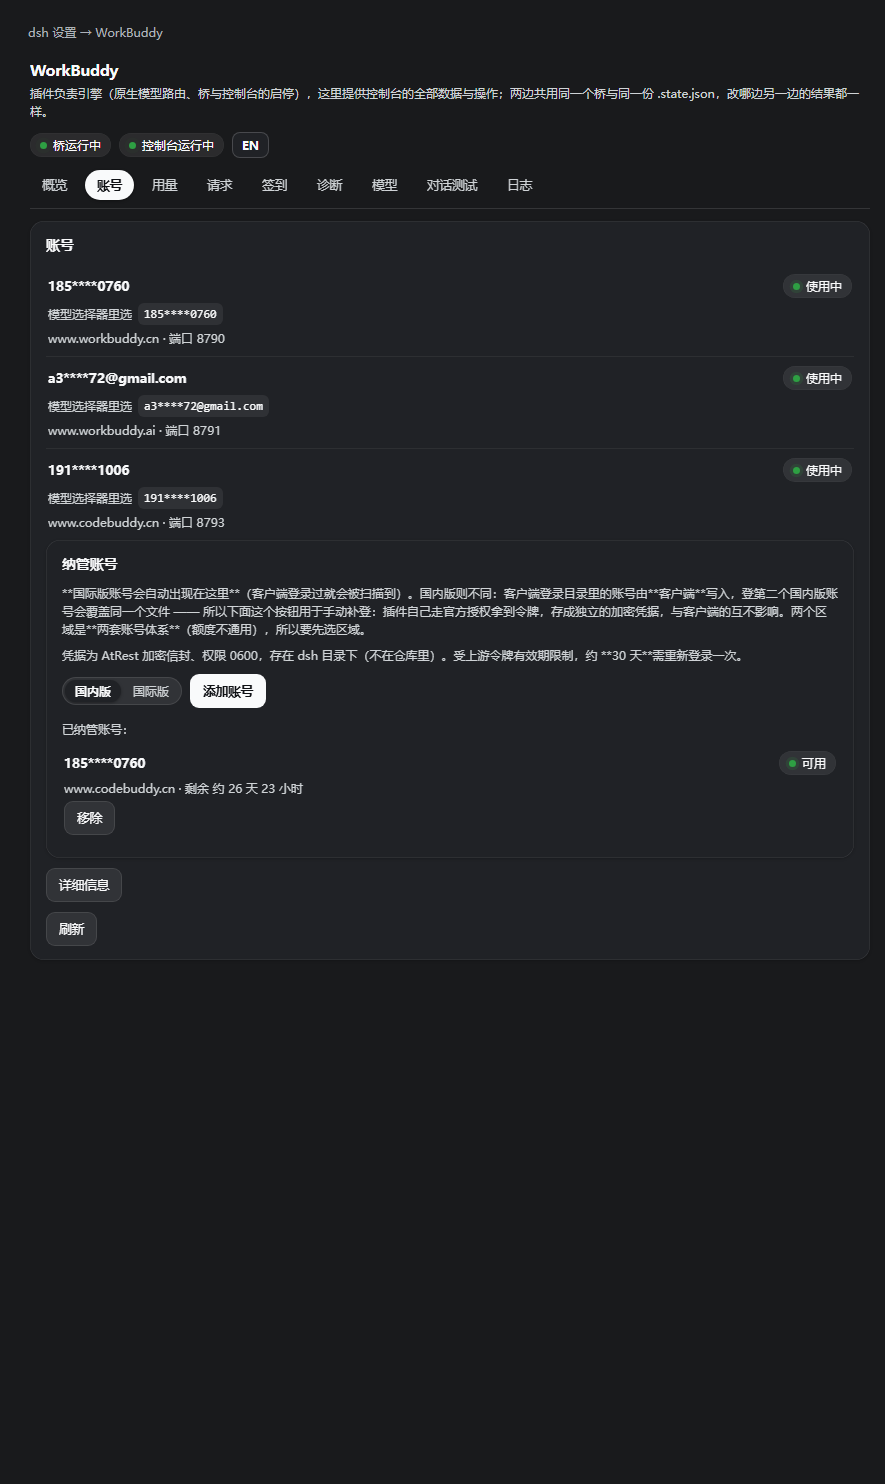
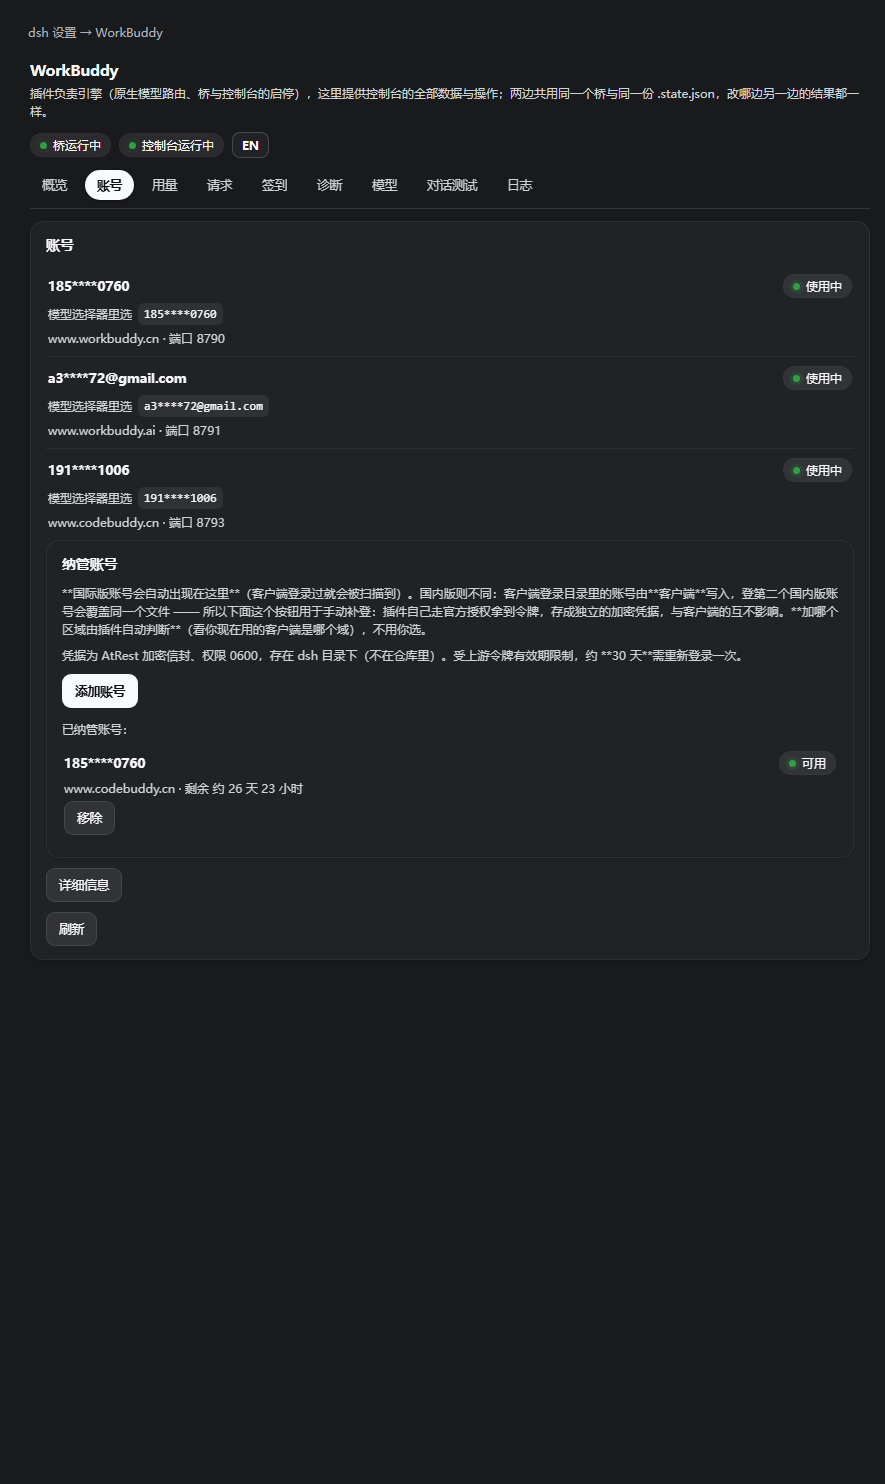
feat: 去掉区域选择 —— 「添加账号」由插件自动判断区域
用户连续三次反馈，指向同一个结论：

  ① `国内版 | 国际版` 切换器 + 一个按钮  → "不要这个切换按钮了"
  ② 两个按钮（添加国内版账号 / 添加国际版账号）→ "两个明确的按钮也不需要"
  ③ 一个按钮，区域自动判断  ← 现在

**"该加哪个区域"有确定答案**：你正在用的客户端是哪个域，就是要补登的那个域。
让用户去选一个他自己都不知道该怎么选的东西，本来就是设计失误。

实现：`routes.mjs` 新增 `detectRegion()`，读主桥 `/health` 的 `auth.endpoint`
（实测国内版 `https://copilot.tencent.com`、国际版 `https://www.workbuddy.ai`），
endpoint 缺失时回退到 `auth.domain`，都拿不到才兜底 `cn`。
`action: 'start'` 没传 region 时自动探测；显式传仍被尊重（诊断/脚本用得上）。

域映射按**后缀**认已知等价域（实测上游不同版本用过 `workbuddy.ai` /
`codebuddy.ai` / `codebuddy.cn` / `workbuddy.cn`），**不认识的域一律返回空**
——不猜，猜错等于让用户去错的上游登一次。

面板：删掉 region 状态与分段控件，`begin()` 不再接收参数、请求只发
`{action:'start'}`。界面上没有任何区域字样。

真机验证：
  - 主桥 endpoint = copilot.tencent.com → 判定 cn ✓
  - 两个区域都能真的从上游拿到授权链接（国际版链接指向 www.workbuddy.ai）✓
  - 面板渲染测试：单个按钮、无区域控件、请求不带 region ✓

新增测试 region-detect.test.mjs（3 条）：路由层必须自动探测、域映射认得等价域
且不认识的域不猜、面板只有一个按钮且请求不带 region。
面板渲染测试也同步更新（原先断言"点国际版 → region=global"，现在断言"没有区域
控件且请求不带 region"）。

顺带修 README 两处过期描述（"登录只做国内版"已不成立）。

diff --git a/dsh-plugin/lib/client.js b/dsh-plugin/lib/client.js
@@ -618,11 +618,8 @@ body.dark .wb-root,
       // ── 纳管账号（插件自己走 OAuth 登录） ──────────────────────────────
       '纳管账号': 'Managed accounts',
       '正在读取纳管账号…': 'Loading managed accounts…',
-      '**国际版账号会自动出现在这里**（客户端登录过就会被扫描到）。国内版则不同：客户端登录目录里的账号由**客户端**写入，登第二个国内版账号会覆盖同一个文件 —— 所以下面这个按钮用于手动补登：插件自己走官方授权拿到令牌，存成独立的加密凭据，与客户端的互不影响。两个区域是**两套账号体系**（额度不通用），所以要先选区域。':
-        '**International accounts show up here automatically** (the client\'s login directory is scanned). Domestic accounts differ: the client writes them into a single fixed file, so signing in a second one overwrites the first — the button below signs in an additional account through the official authorization flow and stores it as an independent encrypted credential that does not interfere with the client. The two regions are **separate account systems** (credits do not carry over), so pick a region first.',
-      '登录区域': 'Sign-in region',
-      '国内版': 'Domestic',
-      '国际版': 'International',
+      '**国际版账号会自动出现在这里**（客户端登录过就会被扫描到）。国内版则不同：客户端登录目录里的账号由**客户端**写入，登第二个国内版账号会覆盖同一个文件 —— 所以下面这个按钮用于手动补登：插件自己走官方授权拿到令牌，存成独立的加密凭据，与客户端的互不影响。**加哪个区域由插件自动判断**（看你现在用的客户端是哪个域），不用你选。':
+        '**International accounts show up here automatically** (the client\'s login directory is scanned). Domestic accounts differ: the client writes them into a single fixed file, so signing in a second one overwrites the first — the button below signs in an additional account through the official authorization flow and stores it as an independent encrypted credential that does not interfere with the client. **The plugin picks the region for you** (it follows whichever domain your current client uses).',
       '凭据为 AtRest 加密信封、权限 0600，存在 dsh 目录下（不在仓库里）。受上游令牌有效期限制，约 **30 天**需重新登录一次。':
         'Credentials are stored as at-rest encrypted envelopes with mode 0600 under the dsh directory (never inside the repo). Upstream token lifetime requires re-signing in roughly every **30 days**.',
       '添加账号': 'Add account',
@@ -2406,16 +2403,8 @@ body.dark .wb-root,
       const [authUrl, setAuthUrl] = useState('');
       const [message, setMessage] = useState('');
       const [removing, setRemoving] = useState('');
-      /**
-       * 登录区域（`cn` / `global`）。两个区域是**两套账号体系**：上游域不同、
-       * 额度不通用，所以必须显式选，不能靠猜。
-       * 默认国内版：客户端把它写死在一个文件名里（登第二个会覆盖），
-       * 所以那边更需要手动补登；国际版多数靠自动纳管。
-       */
-      const [region, setRegion] = useState('cn');
 
       const accounts = data?.accounts || [];
-      const regions = data?.regions || [];
 
       const post = async (body) => {
         const res = await fetch('/workbuddy/login', {
@@ -2445,11 +2434,14 @@ body.dark .wb-root,
         }, 3000);
       };
 
+      /**
+       * 发起登录。**不传区域** —— 由宿主按"当前客户端是哪个域"自动判断
+       * （见 routes.mjs 的 detectRegion）。界面因此没有任何区域字样。
+       */
       const begin = async () => {
         setBusy(true);
         setMessage('');
-        // 用**当前选中的区域**发起：国内版与国际版是两套上游域与账号体系。
-        const r = await post({ action: 'start', region });
+        const r = await post({ action: 'start' });
         setBusy(false);
         if (!r.ok) { setMessage(r.error || '发起登录失败'); return; }
         setLoginId(r.id);
@@ -2483,38 +2475,31 @@ body.dark .wb-root,
           + '国内版则不同：客户端登录目录里的账号由**客户端**写入，登第二个国内版账号会覆盖'
           + '同一个文件 —— 所以下面这个按钮用于手动补登：'
           + '插件自己走官方授权拿到令牌，存成独立的加密凭据，与客户端的互不影响。'
-          + '两个区域是**两套账号体系**（额度不通用），所以要先选区域。'),
+          + '**加哪个区域由插件自动判断**（看你现在用的客户端是哪个域），不用你选。'),
         h('p', { className: 'wb-note' },
           '凭据为 AtRest 加密信封、权限 0600，存在 dsh 目录下（不在仓库里）。'
           + '受上游令牌有效期限制，约 **30 天**需重新登录一次。'),
 
         // ── 添加账号 ────────────────────────────────────────────────────
+        /*
+         * **只有一个按钮**，区域由宿主自动判断（看你现在用的客户端是哪个域）。
+         *
+         * 演进过程：先是 `国内版 | 国际版` 切换器 + 一个按钮（用户："不要这个
+         * 切换按钮了"）→ 改成两个按钮（用户："两个明确的按钮也不需要"）→
+         * 现在一个按钮，区域对用户完全不可见。
+         *
+         * 这是合理的：**"该加哪个区域"有确定答案** —— 你正在用的客户端是哪个域，
+         * 就是要补登的那个域（见 routes.mjs 的 detectRegion）。让用户去选一个
+         * 他自己都不知道该怎么选的东西，本来就是设计失误。
+         */
         h('div', { className: 'wb-actions', style: { marginTop: '10px' } },
           phase === 'waiting'
             ? h(Btn, { onClick: cancel }, '取消登录')
-            : [
-              /*
-               * 区域选择：国内版 / 国际版各一套上游域，账号体系也各自独立
-               * （额度不通用）。**默认国内版** —— 国内版客户端把登录态写死在
-               * 一个文件名里（登第二个会覆盖），所以那边更需要这个按钮；
-               * 国际版多数情况靠自动纳管就够了。
-               */
-              regions.length > 1
-                ? h(Segmented, {
-                  key: 'region',
-                  value: region,
-                  onChange: (e) => setRegion(e.target.value),
-                  options: regions.map((r) => ({ value: r.id, label: r.label })),
-                  ariaLabel: '登录区域',
-                })
-                : null,
-              h(Btn, {
-                key: 'add',
-                primary: true,
-                disabled: busy || !regions.length,
-                onClick: begin,
-              }, busy ? '正在发起…' : '添加账号'),
-            ]),
+            : h(Btn, {
+              primary: true,
+              disabled: busy,
+              onClick: () => begin(),
+            }, busy ? '正在发起…' : '添加账号')),
 
         phase === 'waiting' ? h('div', { style: { marginTop: '8px' } },
           h(Alert, null, '请在浏览器里完成授权，完成后本页会自动更新。'),
